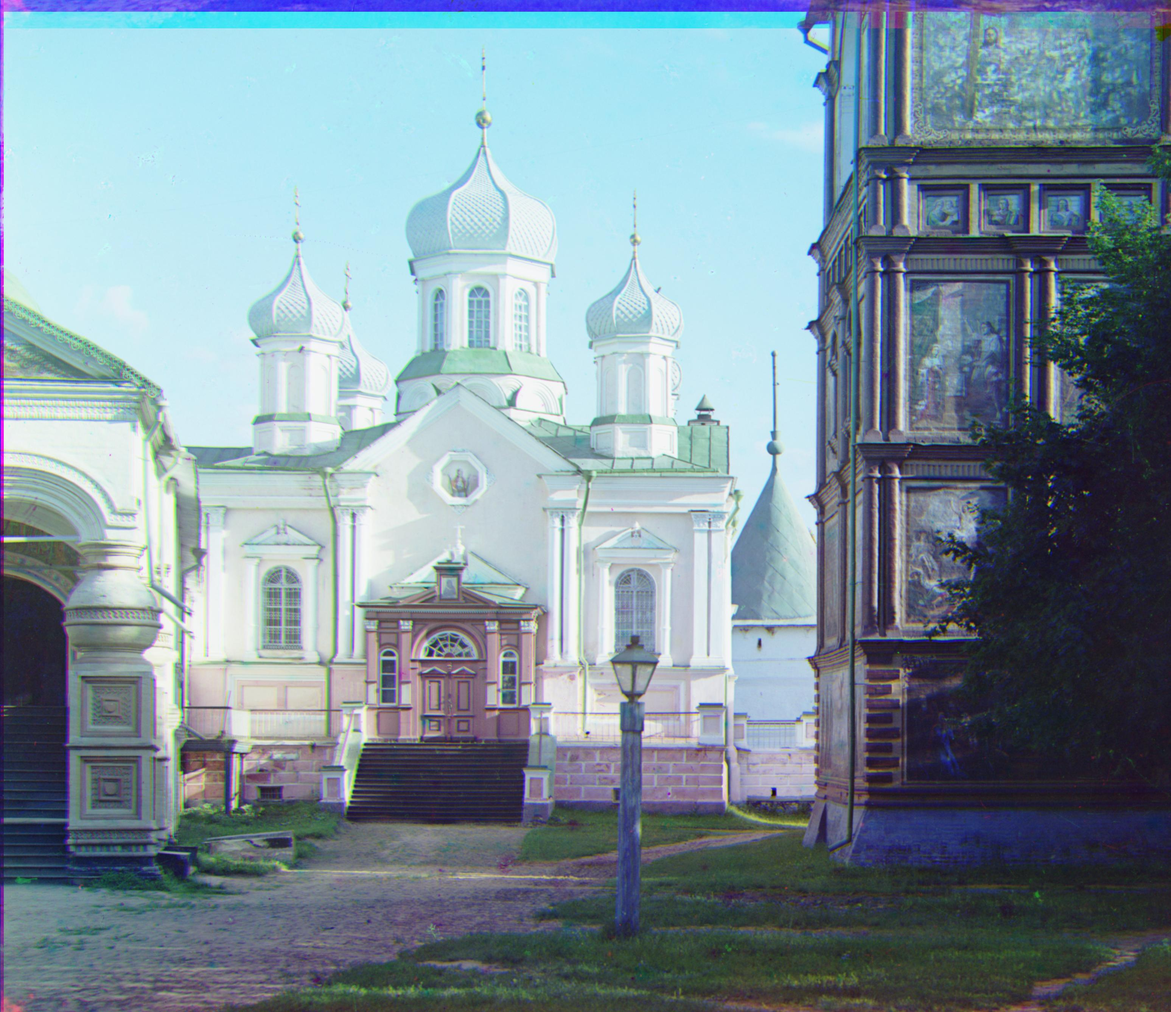
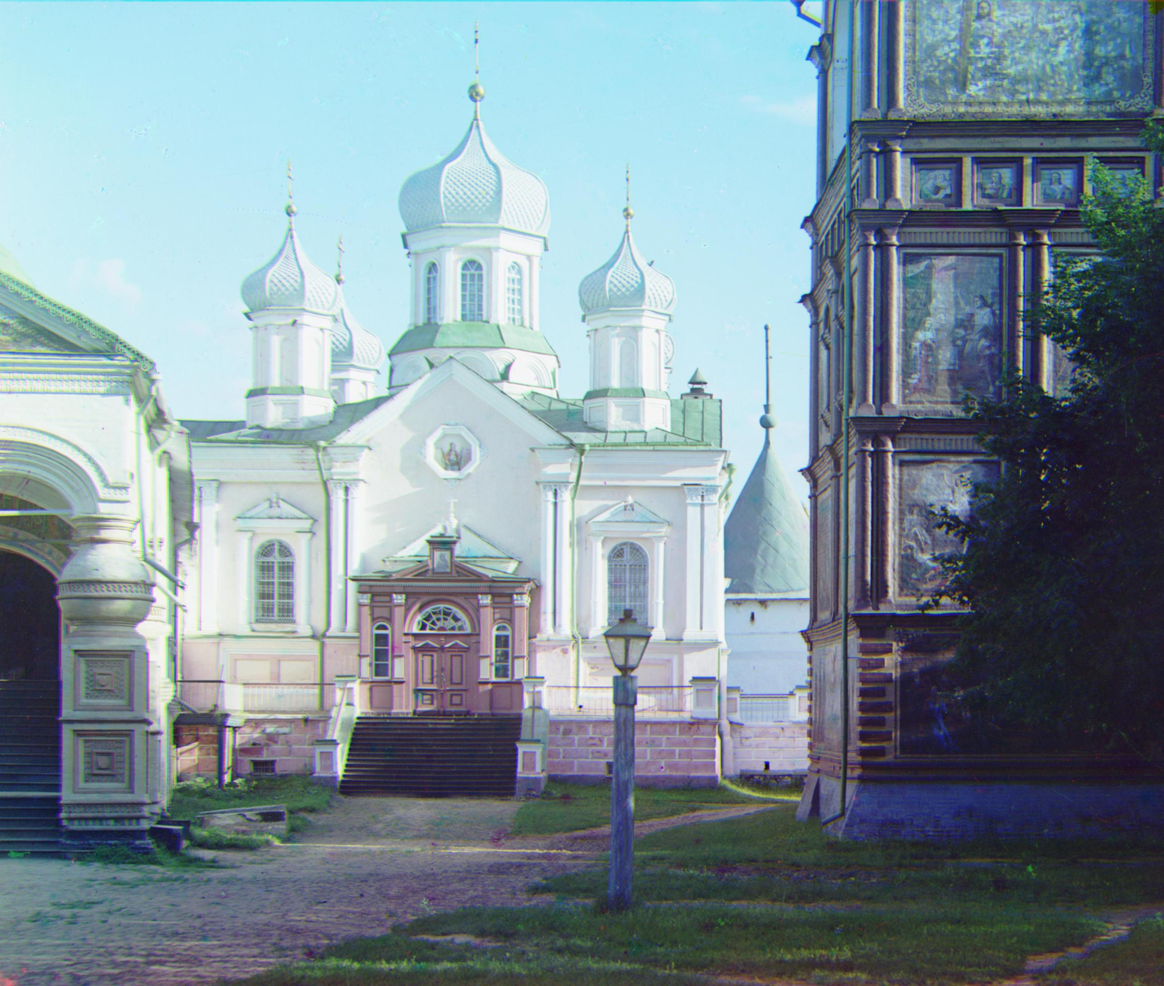
images découpées

diff --git a/tp1/web/indexv2.html b/tp1/web/indexv2.html
@@ -409,13 +409,17 @@
         <div class="row">
           <div class="col-md-6 portfolio-item">
             <p>6.Recomposer l'image avec les trois canaux alignés (avec cat())<br><br></p>
+            <img class="img-responsive" src="pictures/examples/q2_aligned_00128u_preFinalCrop.jpg" alt="">
+          </div>
+          <div class="col-md-6 portfolio-item">
+            <p>7.Découper les bordures (avec imcrop())<br><br></p>
             <img class="img-responsive" src="pictures/q2_aligned_00128u.jpg" alt="">
           </div>
         </div>
 
         <br><br> À noter au passage que cet algorithme s'avère tout aussi efficace sur des images de basses résolutions que hautes résolutions.
       <br><br> De plus, il faut noter que certaines images ont été soumises à un équilibrage des blancs avec la méthode Grey World. Entre autre, les photos 00029u.tif,
-      00737u.tif, 00822u.tif, 00892.tif.
+      00737u.tif, 00822u.tif, 00892.tif, 01161u.tif, 01485u.tif.
       <br>Les autres images étaient traitées efficacement par l'algorithme, mais le résultat en sortie s'avérait parfoir plus froid et moins intéressant à mon goût personnel.
       À cet égard, j'admets avoir une préférence pour les photos un peu plus chaudes.
       </div>
@@ -511,12 +515,12 @@
   <div class="row">
     <div class="col-md-6 portfolio-item">
       <img class="img-responsive" src="pictures/q2_aligned_01161u.jpg" alt="">
-      <h5><a href="pictures/q2_aligned_01161u.jpg">(Haute résolution)</a></h5>
+      <h5><a href="pictures/q2_aligned_01161u.jpg">01161u.tif</a></h5>
       <p>Décalage du canal rouge : x=40, y=18<br>Décalage du canal vert : x=25, y=-1</p>
     </div>
     <div class="col-md-6 portfolio-item">
       <img class="img-responsive" src="pictures/q2_aligned_01223u.jpg" alt="">
-      <h5><a href="pictures/q2_aligned_01223u.jpg">(Haute résolution)</a></h5>
+      <h5><a href="pictures/q2_aligned_01223u.jpg">01223u.tif</a></h5>
       <p>Décalage du canal rouge : x=75, y=2<br>Décalage du canal vert : x=31, y=10</p>
     </div>
   </div>
@@ -525,12 +529,12 @@
   <div class="row">
     <div class="col-md-6 portfolio-item">
       <img class="img-responsive" src="pictures/q2_aligned_01234u.jpg" alt="">
-      <h5><a href="pictures/q2_aligned_01234u.jpg">(Haute résolution)</a></h5>
+      <h5><a href="pictures/q2_aligned_01234u.jpg">01234u.tif</a></h5>
       <p>Décalage du canal rouge : x=97, y=13<br>Décalage du canal vert : x=48, y=12</p>
     </div>
     <div class="col-md-6 portfolio-item">
       <img class="img-responsive" src="pictures/q2_aligned_01253u.jpg" alt="">
-      <h5><a href="pictures/q2_aligned_01253u.jpg">(Haute résolution)</a></h5>
+      <h5><a href="pictures/q2_aligned_01253u.jpg">  </a>01253u.tif</h5>
       <p>Décalage du canal rouge : x=121, y=22<br>Décalage du canal vert : x=54, y=13</p>
     </div>
   </div>
@@ -539,12 +543,12 @@
   <div class="row">
     <div class="col-md-6 portfolio-item">
       <img class="img-responsive" src="pictures/q2_aligned_01334u.jpg" alt="">
-      <h5><a href="pictures/q2_aligned_01334u.jpg">(Haute résolution)</a></h5>
+      <h5><a href="pictures/q2_aligned_01334u.jpg"> 01334u.tif </a></h5>
       <p>Décalage du canal rouge : x=165, y=16<br>Décalage du canal vert : x=76, y=16</p>
     </div>
     <div class="col-md-6 portfolio-item">
       <img class="img-responsive" src="pictures/q2_aligned_01406u.jpg" alt="">
-      <h5><a href="pictures/q2_aligned_01406u.jpg">(Haute résolution)</a></h5>
+      <h5><a href="pictures/q2_aligned_01406u.jpg"> 01406u.tif </a></h5>
       <p>Décalage du canal rouge : x=0, y=-9<br>Décalage du canal vert : x=68, y=31</p>
     </div>
   </div>
@@ -553,12 +557,12 @@
   <div class="row">
     <div class="col-md-6 portfolio-item">
       <img class="img-responsive" src="pictures/q2_aligned_01485u.jpg" alt="">
-      <h5><a href="pictures/q2_aligned_01485u.jpg">(Haute résolution)</a></h5>
+      <h5><a href="pictures/q2_aligned_01485u.jpg">01485u.tif</a></h5>
       <p>Décalage du canal rouge : x=131, y=8<br>Décalage du canal vert : x=56, y=1</p>
     </div>
     <div class="col-md-6 portfolio-item">
       <img class="img-responsive" src="pictures/q2_aligned_01498u.jpg" alt="">
-      <h5><a href="pictures/q2_aligned_01498u.jpg">(Haute résolution)</a></h5>
+      <h5><a href="pictures/q2_aligned_01498u.jpg">01498u.tif</a></h5>
       <p>Décalage du canal rouge : x=118, y=30<br>Décalage du canal vert : x=52, y=26</p>
     </div>
   </div>

diff --git a/tp1/code/functions/cropImage.m b/tp1/code/functions/cropImage.m
@@ -1,3 +1,18 @@
 function cropedImage = cropImage(image)
-details = getCropDetails(image);
-cropedImage = imcrop(image, details);
+
+[imHeight, imWidth] = size(image);
+
+cropedFactorHeight = 12;
+cropedFactorWidth = 12;
+
+crHeight = imHeight/cropedFactorHeight;
+crWidth = imWidth/cropedFactorWidth;
+
+xmin=crWidth;
+ymin=crHeight;
+width=imWidth-(2*crWidth);
+height=imHeight-(2*crHeight);
+
+cropDetails = [xmin ymin width height];
+
+cropedImage = imcrop(image, cropDetails);

diff --git a/tp1/code/functions/finalCropImage.m b/tp1/code/functions/finalCropImage.m
@@ -1,0 +1,16 @@
+function cropedImage = finalCropImage(image)
+
+[imHeight, imWidth] = size(image);
+
+%fulldef
+%crHeight = 72;
+%crWidth = 20;
+
+xmin=crWidth;
+ymin=crHeight;
+width=imWidth-(crWidth);
+height=imHeight-(crHeight);
+
+cropDetails = [xmin ymin width height];
+
+cropedImage = imcrop(image, cropDetails);
